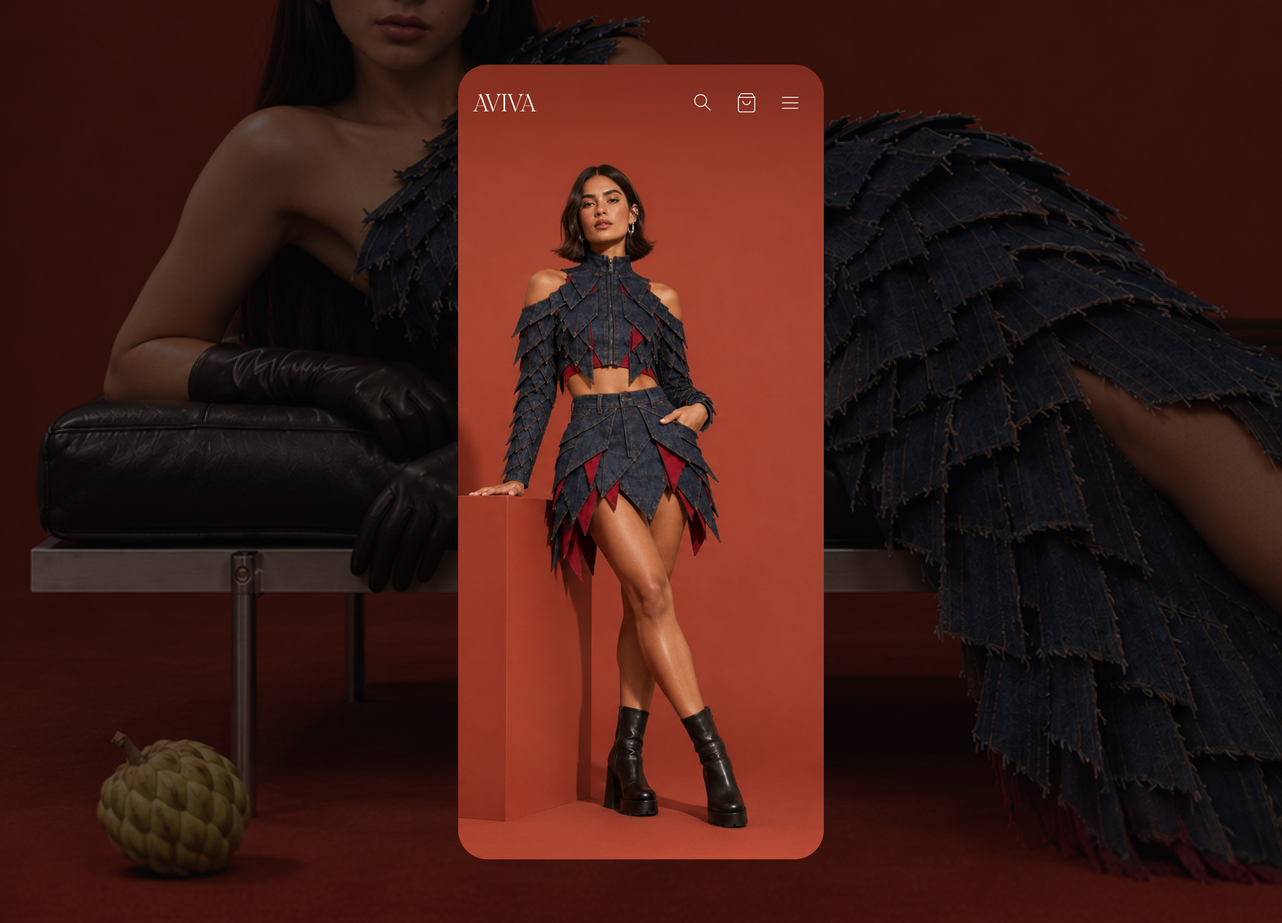
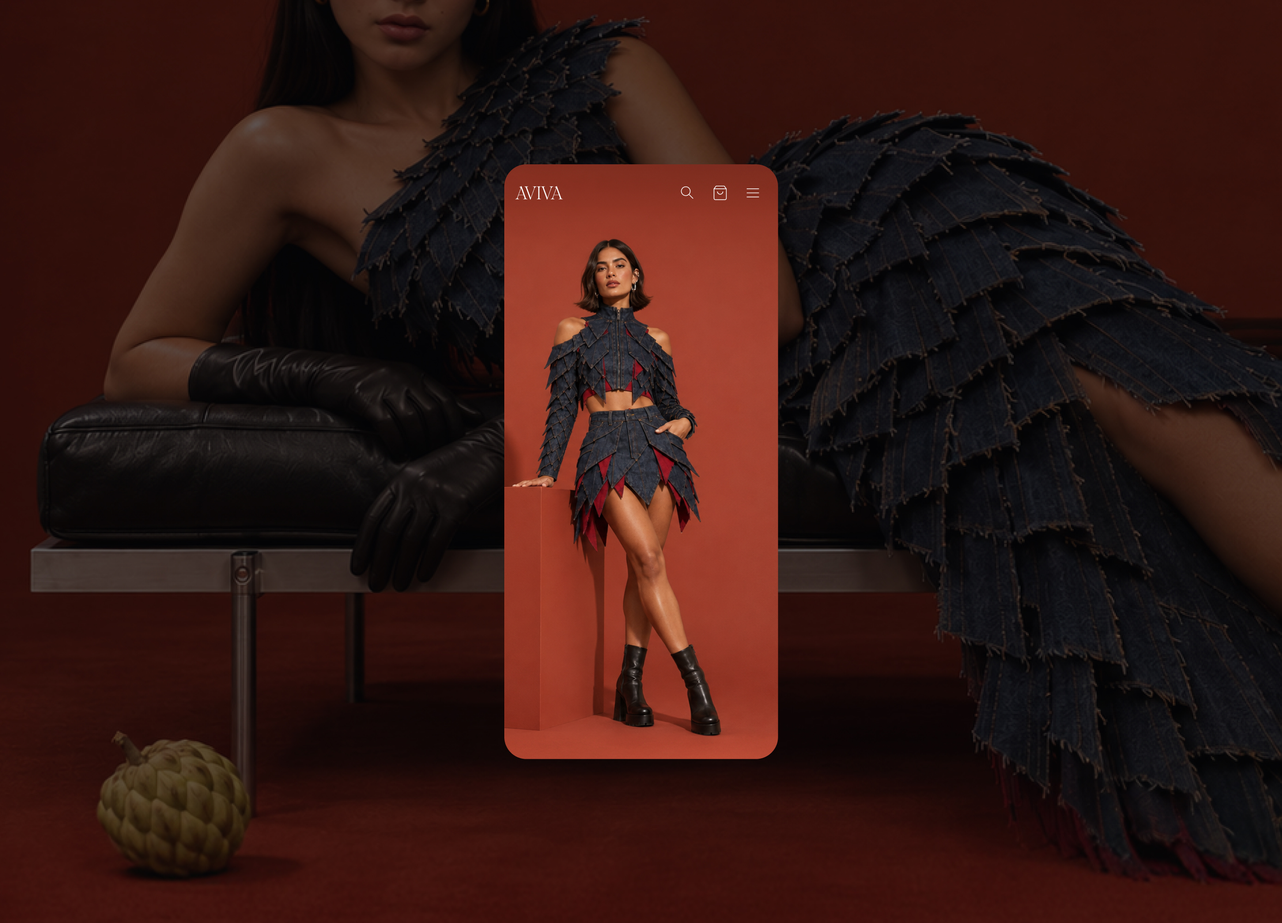
Aviva: pranchas atualizadas, vídeo da 06 no mesmo quadro da 08 e texto curto na margem inferior

Changed region(s): [[0.3408, 0.062, 0.6506, 0.93]]

diff --git a/src/App.tsx b/src/App.tsx
@@ -56,6 +56,7 @@ import imgAv6 from "@/imports/Aviva/06.jpg"
 import imgAv7 from "@/imports/Aviva/07.jpg"
 import imgAv8 from "@/imports/Aviva/08.jpg"
 import imgAv9 from "@/imports/Aviva/09.jpg"
+import imgAv10 from "@/imports/Aviva/10.jpg"
 import vidAvMenu from "@/imports/Aviva/menu.mp4"
 import vidAvProduto from "@/imports/Aviva/produto.mp4"
 
@@ -91,6 +92,12 @@ const avivaMenuVideo = {
   crop: [428, 129, 1064, 686] as [number, number, number, number],
   size: [1920, 944] as [number, number],
 }
+const avivaScreenRect: [number, number, number, number] = [
+  (160 / 1388) * 100,
+  15.5,
+  (1067.43 / 1388) * 100,
+  69,
+]
 const avivaProductVideo = {
   src: vidAvProduto,
   crop: [428, 127, 1064, 686] as [number, number, number, number],
@@ -164,6 +171,7 @@ const projects: Record<ProjectId, {
   images: string[]
   // screen recordings layered on top of some images, by image index
   videos?: Record<number, ScreenVideo>
+  shortText?: boolean
 }> = {
   decolar: {
     title: "Decolar",
@@ -186,16 +194,14 @@ const projects: Record<ProjectId, {
     title: "Aviva",
     subtitle: "E-commerce design",
     paragraphs: avivaText,
-    images: [imgAv1, imgAv2, imgAv3, imgAv4, imgAv5, imgAv6, imgAv7, imgAv8, imgAv9],
+    images: [imgAv1, imgAv2, imgAv3, imgAv4, imgAv5, imgAv6, imgAv7, imgAv8, imgAv9, imgAv10],
+    // short text: title at the top, body resting on the bottom margin
+    shortText: true,
     videos: {
-      // 06 · product page: the whole slide width is the screen, under a 51px band
-      5: { ...avivaProductVideo, frame: 1388 / 1000, rect: [0, 5.1, 100, 89.722] },
-      // 08 · about: the screen centred on the dark slide
-      7: {
-        ...avivaMenuVideo,
-        frame: 1388 / 1000,
-        rect: [(160 / 1388) * 100, 15.5, (1067.43 / 1388) * 100, 69],
-      },
+      // 06 · product page and 08 · menu: the same 1067.43×690 screen at
+      // 160,155 on the dark 1388×1000 slide
+      5: { ...avivaProductVideo, frame: 1388 / 1000, rect: avivaScreenRect },
+      7: { ...avivaMenuVideo, frame: 1388 / 1000, rect: avivaScreenRect },
     },
   },
   playstation: {
@@ -1061,10 +1067,23 @@ function ProjectPage({
         >
           <div
             ref={textBlockRef}
-            style={{ position: "sticky", top: stickyTop, ...textStyle }}
+            style={{
+              position: "sticky",
+              top: stickyTop,
+              ...textStyle,
+              // A short text rests on the bottom margin, title kept at the top
+              ...(project.shortText
+                ? {
+                    height: "calc(100vh - 64px)",
+                    display: "flex",
+                    flexDirection: "column",
+                    justifyContent: "space-between",
+                  }
+                : null),
+            }}
           >
             {/* Body starts at y=251 in the 1080px frame: 32 + 64 + 155. */}
-            <div style={{ marginBottom: "min(155px, 14.35vh)" }}>
+            <div style={{ marginBottom: project.shortText ? 32 : "min(155px, 14.35vh)" }}>
               <p className="type-title m-0 text-label">{project.title}</p>
               <p className="type-title m-0 text-secondary">
                 {project.subtitle}
